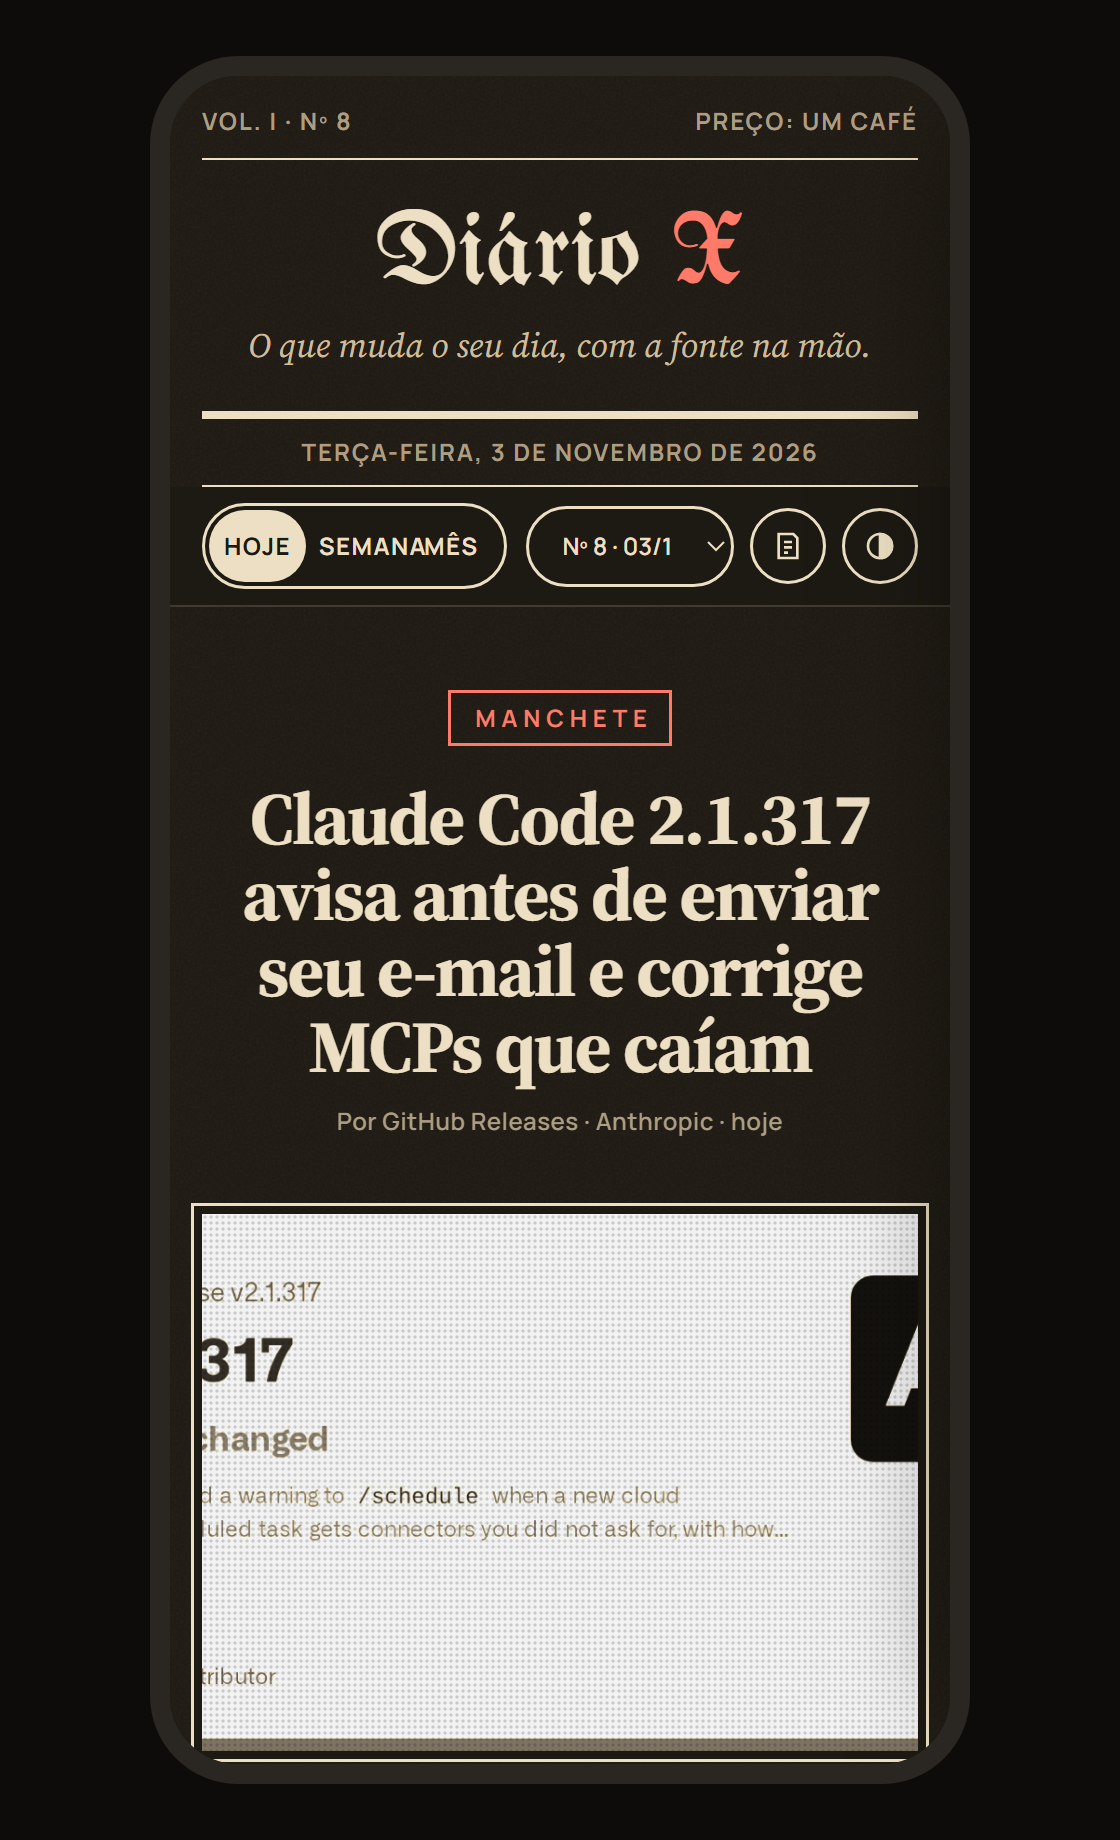
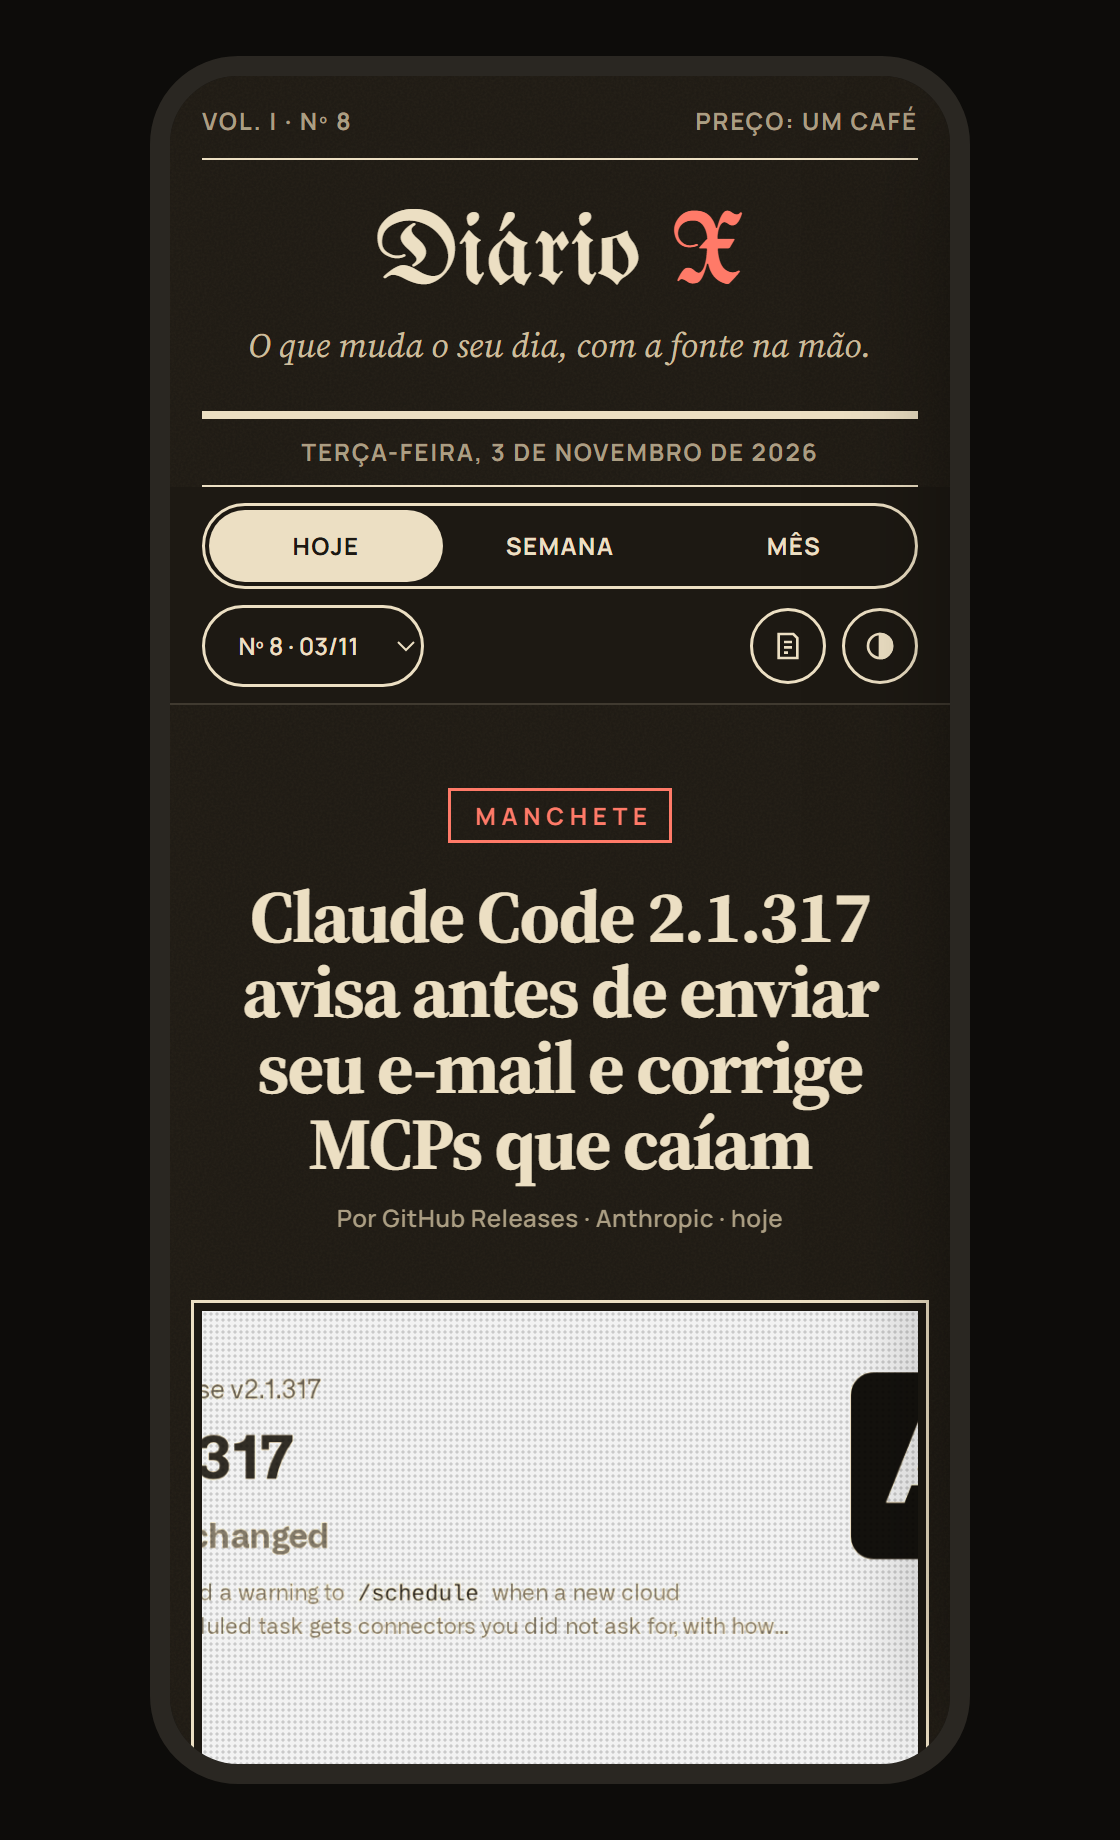
Abas em linha própria no celular e caminhos portáveis para outros usuários

Changed region(s): [[0.1562, 0.3717, 0.8438, 0.9603], [0.2188, 0.2478, 0.8125, 0.3717]]

diff --git a/index.html b/index.html
@@ -229,11 +229,12 @@
   @media (max-width: 640px) {
     .sheet { margin: 0; padding: 0 1rem 1.5rem; box-shadow: none; }
     .bar { margin: 0 -1rem; padding: .5rem 1rem; }
-    .bar-in { gap: .6rem; }
+    .bar-in { gap: .5rem .6rem; flex-wrap: wrap; }
     .cats { display: none; }                 /* o "Dia em 1 minuto" faz esse papel no celular */
-    .seg { flex: 1; }
+    .seg { flex: 1 1 100%; }                 /* linha própria: dividindo com o seletor, "Semana" não cabia no terço */
     .seg button { min-width: 0; padding: .75rem .4rem; }
-    .ed-select { max-width: 6.5rem; }
+    .tools { flex: 1; justify-content: flex-end; }
+    .ed-select { margin-right: auto; }
     .strip .c, .dateline .side { display: none; }
     .dateline { justify-content: center; }
     .cards, .ads { grid-template-columns: 1fr; }

diff --git a/README.md b/README.md
@@ -64,7 +64,14 @@ Se a validação falhar, o agente tenta de novo (até 3 vezes).
 
 ## Rodar
 
-Node 18+, sem dependências.
+Para **ler** o jornal basta o Node 18+, sem dependências: as edições já publicadas vêm no repositório.
+Para **gerar edições novas** você precisa do Antigravity com o CLI `agy`
+instalado e logado (o modelo sai de `DIARIO_MODELO`, padrão `gemini-3.8-flash-medium`).
+
+```bash
+git clone https://github.com/VinniciusXavier/diario-x.git
+cd diario-x
+```
 
 ```bash
 node server.mjs          # abre em http://127.0.0.1:51810 (ou dois cliques no Diario-X.bat)
@@ -87,7 +94,8 @@ Agendar todo dia às 09:00 e ao ligar o PC (Windows, PowerShell):
 | Variável | Para que serve |
 |---|---|
 | `DIARIO_PORT` | porta do servidor (padrão `51810`) |
-| `NEUROOS_INBOX` | pasta onde o botão "Salvar" grava `diario-x.jsonl` |
+| `DIARIO_MODELO` | modelo usado pelo `agy` (padrão `gemini-3.8-flash-medium`) |
+| `NEUROOS_INBOX` | pasta onde o botão "Salvar" grava `diario-x.jsonl` (padrão `~/NeuroOS/brain/inbox`) |
 | `GITHUB_TOKEN` | aumenta o limite da API do GitHub na coleta |
 
 ## Recursos do leitor
@@ -116,6 +124,13 @@ Agendar todo dia às 09:00 e ao ligar o PC (Windows, PowerShell):
 O jornal é pessoal: o "pra você" de cada matéria sai do **Perfil do leitor** em
 [`docs/SKILL-diario-x.md`](docs/SKILL-diario-x.md). Troque esse perfil pelo seu (profissão, ferramentas,
 projetos) e as próximas edições passam a falar com você.
+
+1. Edite o **Perfil do leitor** em `docs/SKILL-diario-x.md`. O `rodar-edicao.mjs` usa esse arquivo, a não ser que
+   exista uma skill instalada em `~/.claude/skills/diario-x/SKILL.md`, que tem prioridade.
+2. Apague as edições de exemplo em `edicoes/` (deixe `index.json` como `{ "edicoes": [] }`) para começar do nº 1.
+3. Rode `node rodar-edicao.mjs` uma vez e, se quiser, agende com `instalar-agendamento.ps1`.
+
+Sem NeuroOS, o botão "Salvar" grava num arquivo `.jsonl` comum na pasta de `NEUROOS_INBOX`.
 
 ---
 
